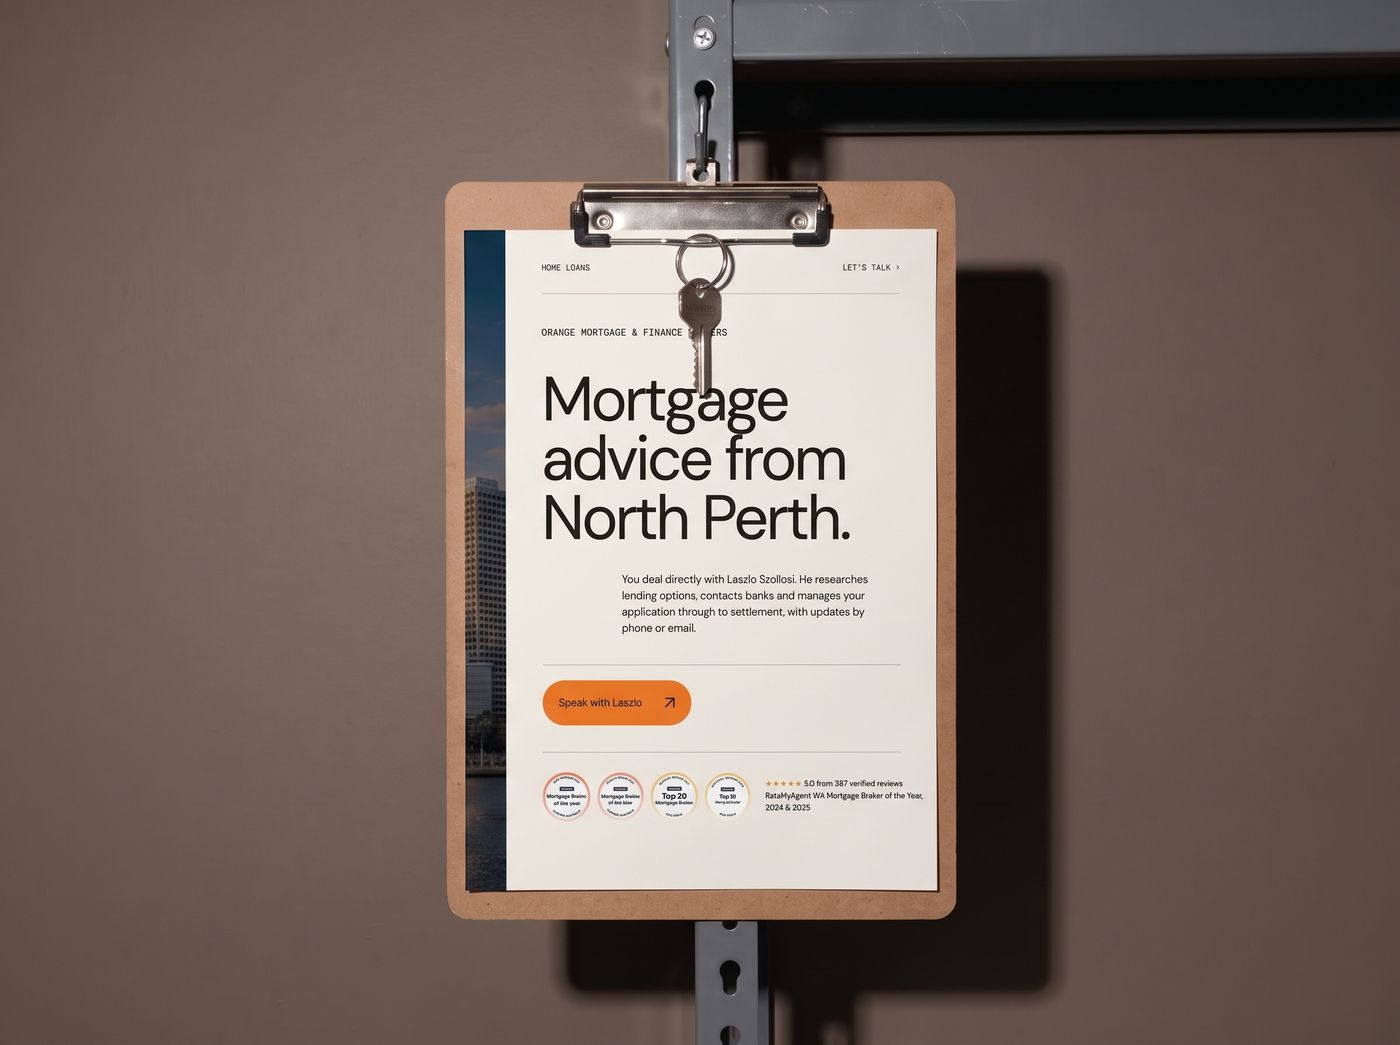
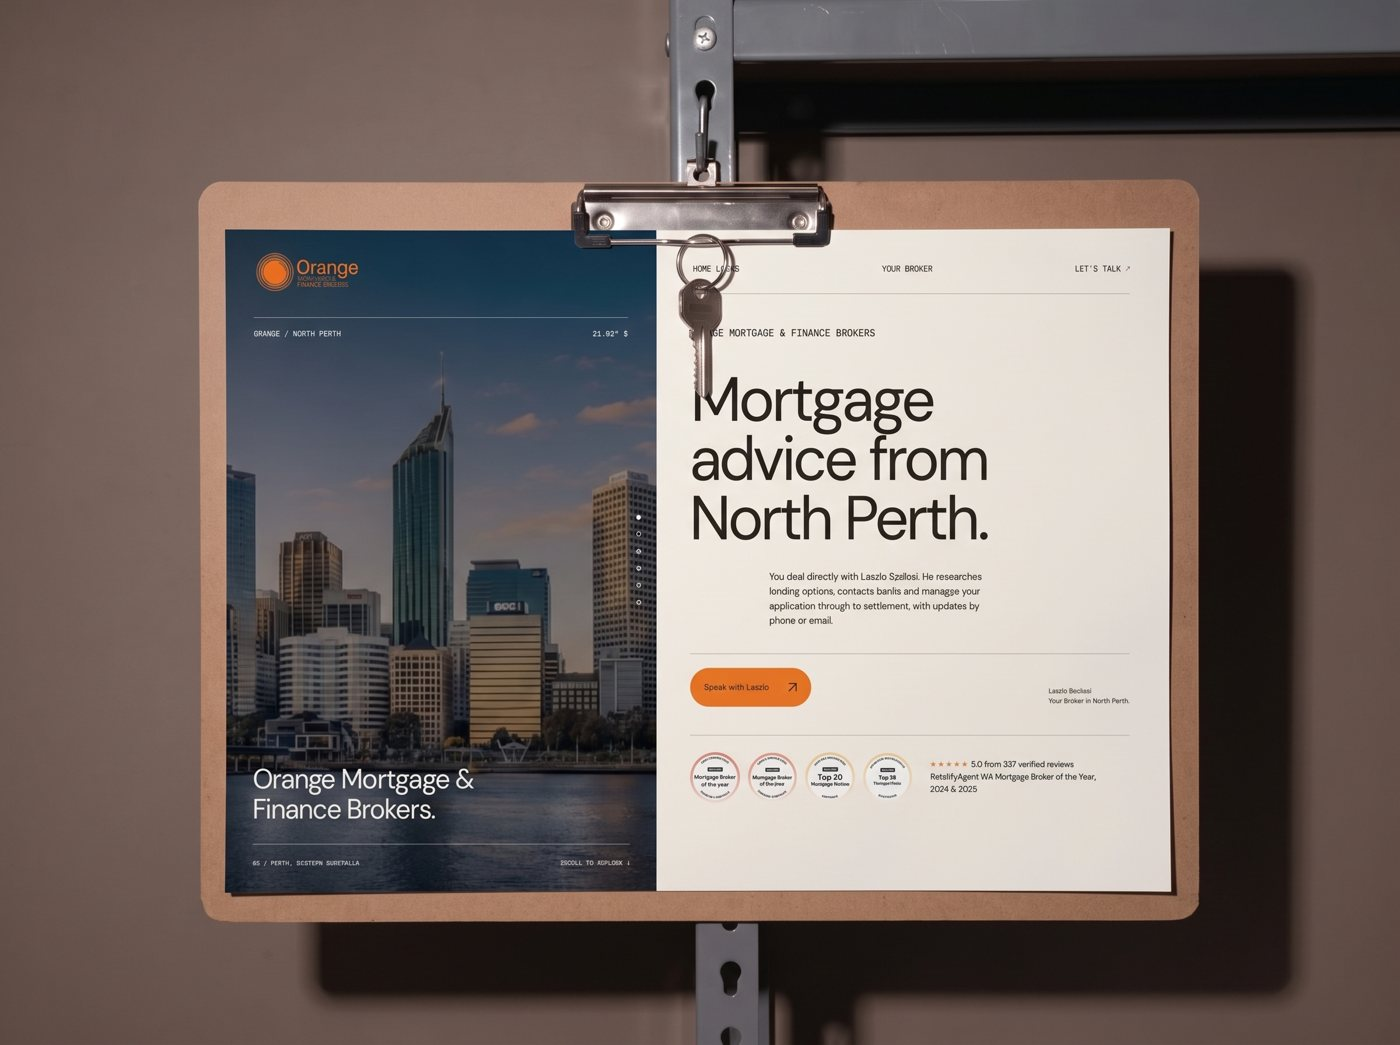
v2: Orange landscape two-column image

diff --git a/v2/index.html b/v2/index.html
@@ -229,8 +229,8 @@ footer small{display:block;margin-top:14px;opacity:.55;font-size:13px}
     </div>
   </div>
   <picture>
-    <source media="(max-width:700px)" srcset="assets/hero-mobile.jpg?v=20260927d">
-    <img src="assets/hero.jpg?v=20260927d" alt="A CVBS website print pouring out of a large format printer and curling onto the floor" fetchpriority="high">
+    <source media="(max-width:700px)" srcset="assets/hero-mobile.jpg?v=20260927e">
+    <img src="assets/hero.jpg?v=20260927e" alt="A CVBS website print pouring out of a large format printer and curling onto the floor" fetchpriority="high">
   </picture>
 </section>
 
@@ -256,27 +256,27 @@ footer small{display:block;margin-top:14px;opacity:.55;font-size:13px}
       <article class="layer rv">
         <div class="txt"><span class="num">01 · Strategy</span><h3 class="caps">The expensive part starts before the design.</h3>
         <p>Who needs to find you, what they need to know, and what happens next. For a commercial renderer that meant leading with crew capacity, systems and documentation, because that is what a builder checks before sending plans.</p></div>
-        <div class="fig"><img src="assets/layer-strategy.jpg?v=20260927d" alt="A sitemap made of index cards pinned to the wall and joined with string, ending at an enquiry card" loading="lazy"></div>
+        <div class="fig"><img src="assets/layer-strategy.jpg?v=20260927e" alt="A sitemap made of index cards pinned to the wall and joined with string, ending at an enquiry card" loading="lazy"></div>
       </article>
       <article class="layer rv">
         <div class="txt"><span class="num">02 · Copy</span><h3 class="caps">Good copy doesn't sound like everyone else.</h3>
         <p>"Quality you can trust" says nothing. "The specification comes first" tells a builder exactly what kind of subcontractor they are dealing with. Every generic line is cut until the site sounds like the business, not the internet.</p></div>
-        <div class="fig"><img src="assets/layer-copy.jpg?v=20260927d" alt="A black marker striking through the printed words Quality you can trust" loading="lazy"></div>
+        <div class="fig"><img src="assets/layer-copy.jpg?v=20260927e" alt="A black marker striking through the printed words Quality you can trust" loading="lazy"></div>
       </article>
       <article class="layer rv">
         <div class="txt"><span class="num">03 · Search</span><h3 class="caps">The best website is useless if nobody finds it.</h3>
         <p>Services, projects and service areas are structured and connected so Google understands what you do and where you do it. Search isn't something added afterwards. It is the architecture.</p></div>
-        <div class="fig"><img src="assets/layer-search.jpg?v=20260927d" alt="Hundreds of blank sheets face down on the floor with one Coastside page face up in a spotlight" loading="lazy"></div>
+        <div class="fig"><img src="assets/layer-search.jpg?v=20260927e" alt="Hundreds of blank sheets face down on the floor with one Coastside page face up in a spotlight" loading="lazy"></div>
       </article>
       <article class="layer rv">
         <div class="txt"><span class="num">04 · Enquiries</span><h3 class="caps">Traffic isn't the end goal. Enquiries are.</h3>
         <p>Every section has a job. The hero gives context, the projects give proof, the capability section builds confidence, and one clear next step asks for the plans. Nothing sits on the page without a reason.</p></div>
-        <div class="fig"><img src="assets/layer-enquiry.jpg?v=20260927d" alt="Coastside website sections laid as a path across the floor, ending at an enquiry form" loading="lazy"></div>
+        <div class="fig"><img src="assets/layer-enquiry.jpg?v=20260927e" alt="Coastside website sections laid as a path across the floor, ending at an enquiry form" loading="lazy"></div>
       </article>
       <article class="layer rv">
         <div class="txt"><span class="num">05 · Build</span><h3 class="caps">Designing it is only half the job.</h3>
         <p>It has to load fast on a phone on site and look sharp on a desktop in the office. Forms that send, images that load, layouts that hold at every screen size. The part nobody sees is the part that decides whether it works.</p></div>
-        <div class="fig"><img src="assets/layer-build.jpg?v=20260927d" alt="A mobile width strip being cut from a desktop print of the Coastside homepage on a cutting mat" loading="lazy"></div>
+        <div class="fig"><img src="assets/layer-build.jpg?v=20260927e" alt="A mobile width strip being cut from a desktop print of the Coastside homepage on a cutting mat" loading="lazy"></div>
       </article>
     </div>
   </div>
@@ -298,15 +298,15 @@ footer small{display:block;margin-top:14px;opacity:.55;font-size:13px}
       <div><span class="mono" style="opacity:.6">Email marketing</span><h2 class="caps" style="margin-top:14px">Your list is already there. Let's use it.</h2></div>
       <p>Every booking, every order, every QR code on a table is a name you already have. Most businesses never send those people anything. I write, design and send the emails, and set up the ones that run on their own. Right now that includes Jordy's, Meat Merchant and CVBS.</p>
     </div>
-    <div class="wide rv"><img src="assets/email-campaigns.jpg?v=20260927d" alt="Four real Jordy's emails printed and hanging from a kitchen docket rail" loading="lazy"></div>
+    <div class="wide rv"><img src="assets/email-campaigns.jpg?v=20260927e" alt="Four real Jordy's emails printed and hanging from a kitchen docket rail" loading="lazy"></div>
     <div class="eflow">
       <div class="rv"><span class="mono">01</span><h3>Set up properly</h3><p>Your platform configured, your domain authenticated, your list cleaned and segmented, so emails land in inboxes instead of spam.</p></div>
       <div class="rv"><span class="mono">02</span><h3>Written and sent</h3><p>Campaigns written in your voice, designed to match your brand and sent on a schedule. You approve them, or you don't and they go anyway.</p></div>
       <div class="rv"><span class="mono">03</span><h3>Running on their own</h3><p>Welcome, birthday, milestone and win back emails. Set once, then working every day without you touching them.</p></div>
     </div>
     <div class="epair">
-      <figure class="rv"><img src="assets/email-cvbs.jpg?v=20260927d" alt="A printed CVBS email on a steel bench beside a conference lanyard and hotel key card" loading="lazy"><figcaption>CVBS's brief confirmation. Sent the moment a brief lands, with exactly what happens next.</figcaption></figure>
-      <figure class="rv"><img src="assets/email-subject.jpg?v=20260927d" alt="A Meat Merchant win back email sliding out of an envelope" loading="lazy"><figcaption>Meat Merchant's win back email. Written from the owner, with one offer and one button.</figcaption></figure>
+      <figure class="rv"><img src="assets/email-cvbs.jpg?v=20260927e" alt="A printed CVBS email on a steel bench beside a conference lanyard and hotel key card" loading="lazy"><figcaption>CVBS's brief confirmation. Sent the moment a brief lands, with exactly what happens next.</figcaption></figure>
+      <figure class="rv"><img src="assets/email-subject.jpg?v=20260927e" alt="A Meat Merchant win back email sliding out of an envelope" loading="lazy"><figcaption>Meat Merchant's win back email. Written from the owner, with one offer and one button.</figcaption></figure>
     </div>
     <div class="proof">
       <span class="mono" style="opacity:.6">Proof</span>
@@ -343,7 +343,7 @@ footer small{display:block;margin-top:14px;opacity:.55;font-size:13px}
 
 <section class="about" id="about">
   <div class="wrap cols">
-    <div class="ph rv"><img src="assets/mel.jpg?v=20260927d" alt="Mel Cox, founder of The Service Edit, sitting on a wooden stool in natural light" loading="lazy"></div>
+    <div class="ph rv"><img src="assets/mel.jpg?v=20260927e" alt="Mel Cox, founder of The Service Edit, sitting on a wooden stool in natural light" loading="lazy"></div>
     <div>
       <span class="mono">About</span>
       <h2 class="caps rv">I've been on the other side of the counter.</h2>
@@ -403,12 +403,12 @@ footer small{display:block;margin-top:14px;opacity:.55;font-size:13px}
 <script>
 /* Projects. Notes are one line each: what the site was built to do. */
 var FEATURED=[
- {n:'CVBS',i:'Events & Venues',l:'Worldwide',u:'https://the-service-edit.github.io/cvbs-2026/',img:'assets/work-cvbs.jpg?v=20260927d',note:'A global venue finding business, rebuilt in phases around trust rather than search.'},
- {n:'Jordy\u2019s',i:'Hospitality',l:'Casuarina, NSW',u:'https://jordyscasuarina.com',img:'assets/work-jordys.jpg?v=20260927d',note:'A pizza and margarita bar, built to get people booking a table or ordering in, with the email running alongside it.'},
- {n:'Coastside Solid Plastering',i:'Specialist Trades',l:'Gold Coast, QLD',u:'https://coastside.theserviceedit.com',img:'assets/work-coastside.jpg?v=20260927d',note:'Commercial rendering, built so a builder can check capacity and systems before sending plans.'},
- {n:'Gold Foil Books',i:'E-commerce',l:'Wollongong, NSW',u:'https://goldfoilbooks.com.au',img:'assets/work-goldfoil.jpg?v=20260927d',note:'Hand-bound special editions sold worldwide, with the craft doing the selling.'},
- {n:'NutterJuck Lures',i:'Handmade Lures',l:'Australia',u:'https://the-service-edit.github.io/nutterjuck/',img:'assets/work-nutterjuck.jpg?v=20260927d',note:'Handmade fishing lures with a shop built to be as simple as the product.'},
- {n:'Orange Mortgage Brokers',i:'Finance',l:'Perth, WA',u:'https://orange-mortgage.theserviceedit.com/option-2/',img:'assets/work-orange.jpg?v=20260927d',note:'A North Perth broker, built so you know exactly who you will deal with before you book a chat.'}
+ {n:'CVBS',i:'Events & Venues',l:'Worldwide',u:'https://the-service-edit.github.io/cvbs-2026/',img:'assets/work-cvbs.jpg?v=20260927e',note:'A global venue finding business, rebuilt in phases around trust rather than search.'},
+ {n:'Jordy\u2019s',i:'Hospitality',l:'Casuarina, NSW',u:'https://jordyscasuarina.com',img:'assets/work-jordys.jpg?v=20260927e',note:'A pizza and margarita bar, built to get people booking a table or ordering in, with the email running alongside it.'},
+ {n:'Coastside Solid Plastering',i:'Specialist Trades',l:'Gold Coast, QLD',u:'https://coastside.theserviceedit.com',img:'assets/work-coastside.jpg?v=20260927e',note:'Commercial rendering, built so a builder can check capacity and systems before sending plans.'},
+ {n:'Gold Foil Books',i:'E-commerce',l:'Wollongong, NSW',u:'https://goldfoilbooks.com.au',img:'assets/work-goldfoil.jpg?v=20260927e',note:'Hand-bound special editions sold worldwide, with the craft doing the selling.'},
+ {n:'NutterJuck Lures',i:'Handmade Lures',l:'Australia',u:'https://the-service-edit.github.io/nutterjuck/',img:'assets/work-nutterjuck.jpg?v=20260927e',note:'Handmade fishing lures with a shop built to be as simple as the product.'},
+ {n:'Orange Mortgage Brokers',i:'Finance',l:'Perth, WA',u:'https://orange-mortgage.theserviceedit.com/option-2/',img:'assets/work-orange.jpg?v=20260927e',note:'A North Perth broker, built so you know exactly who you will deal with before you book a chat.'}
 ];
 (function(){
   var g=document.getElementById('featured');
